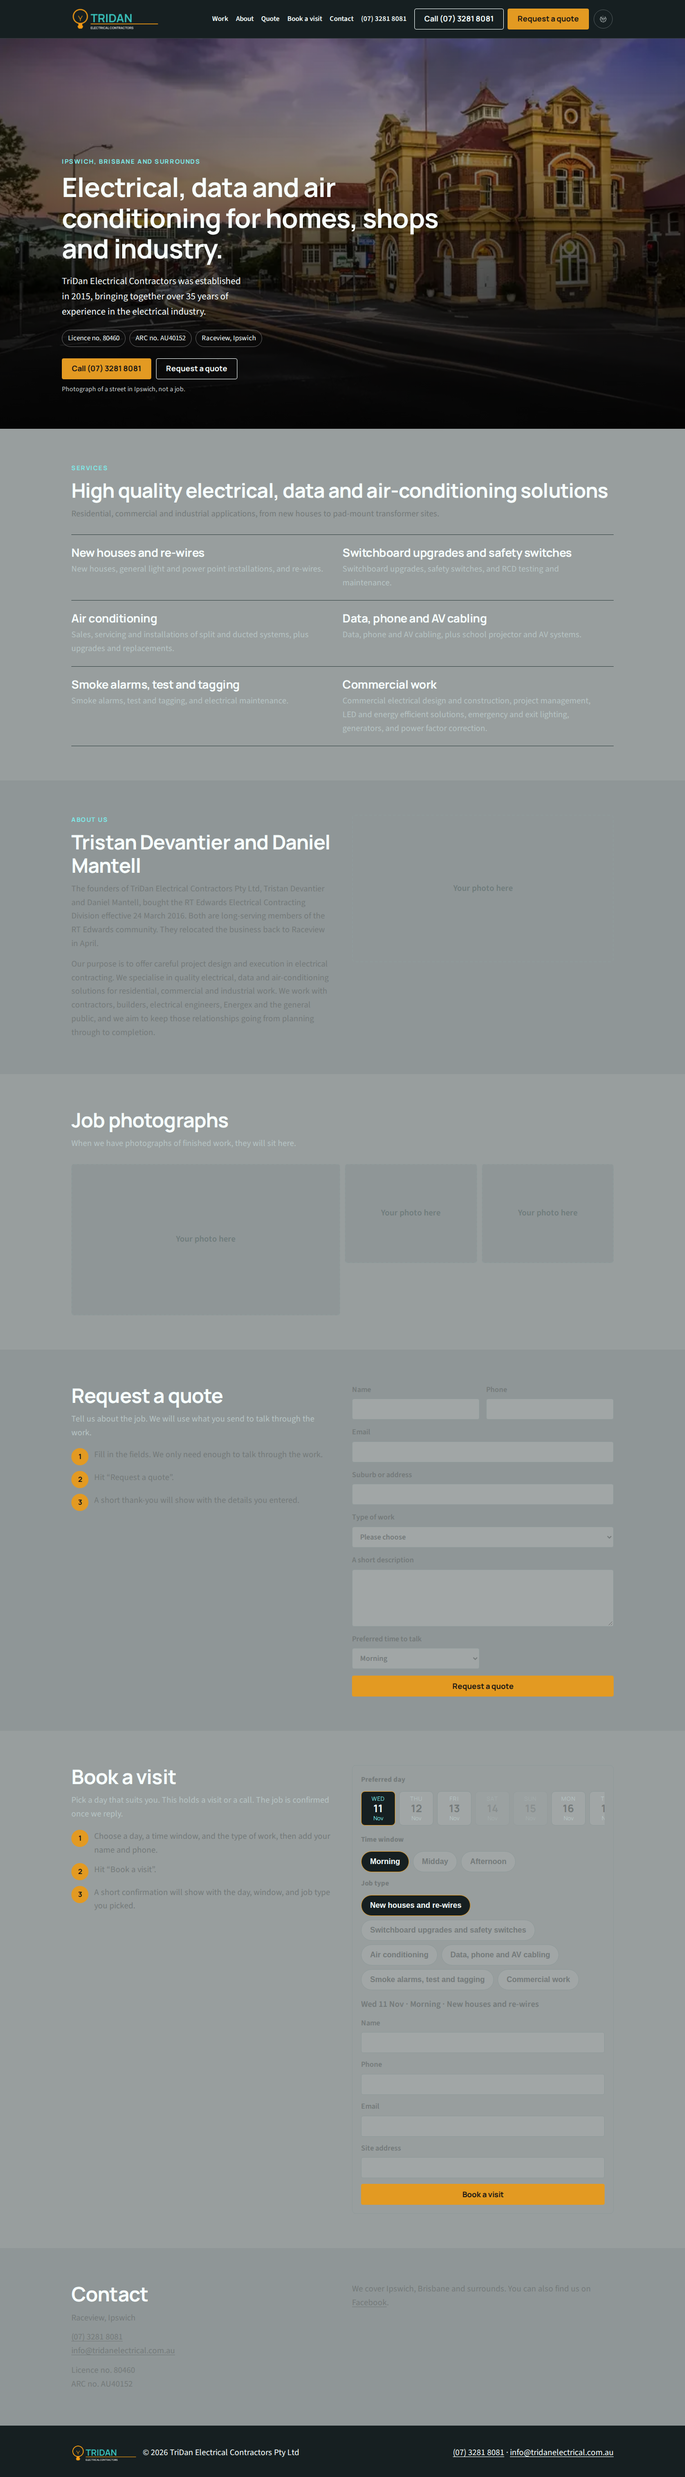
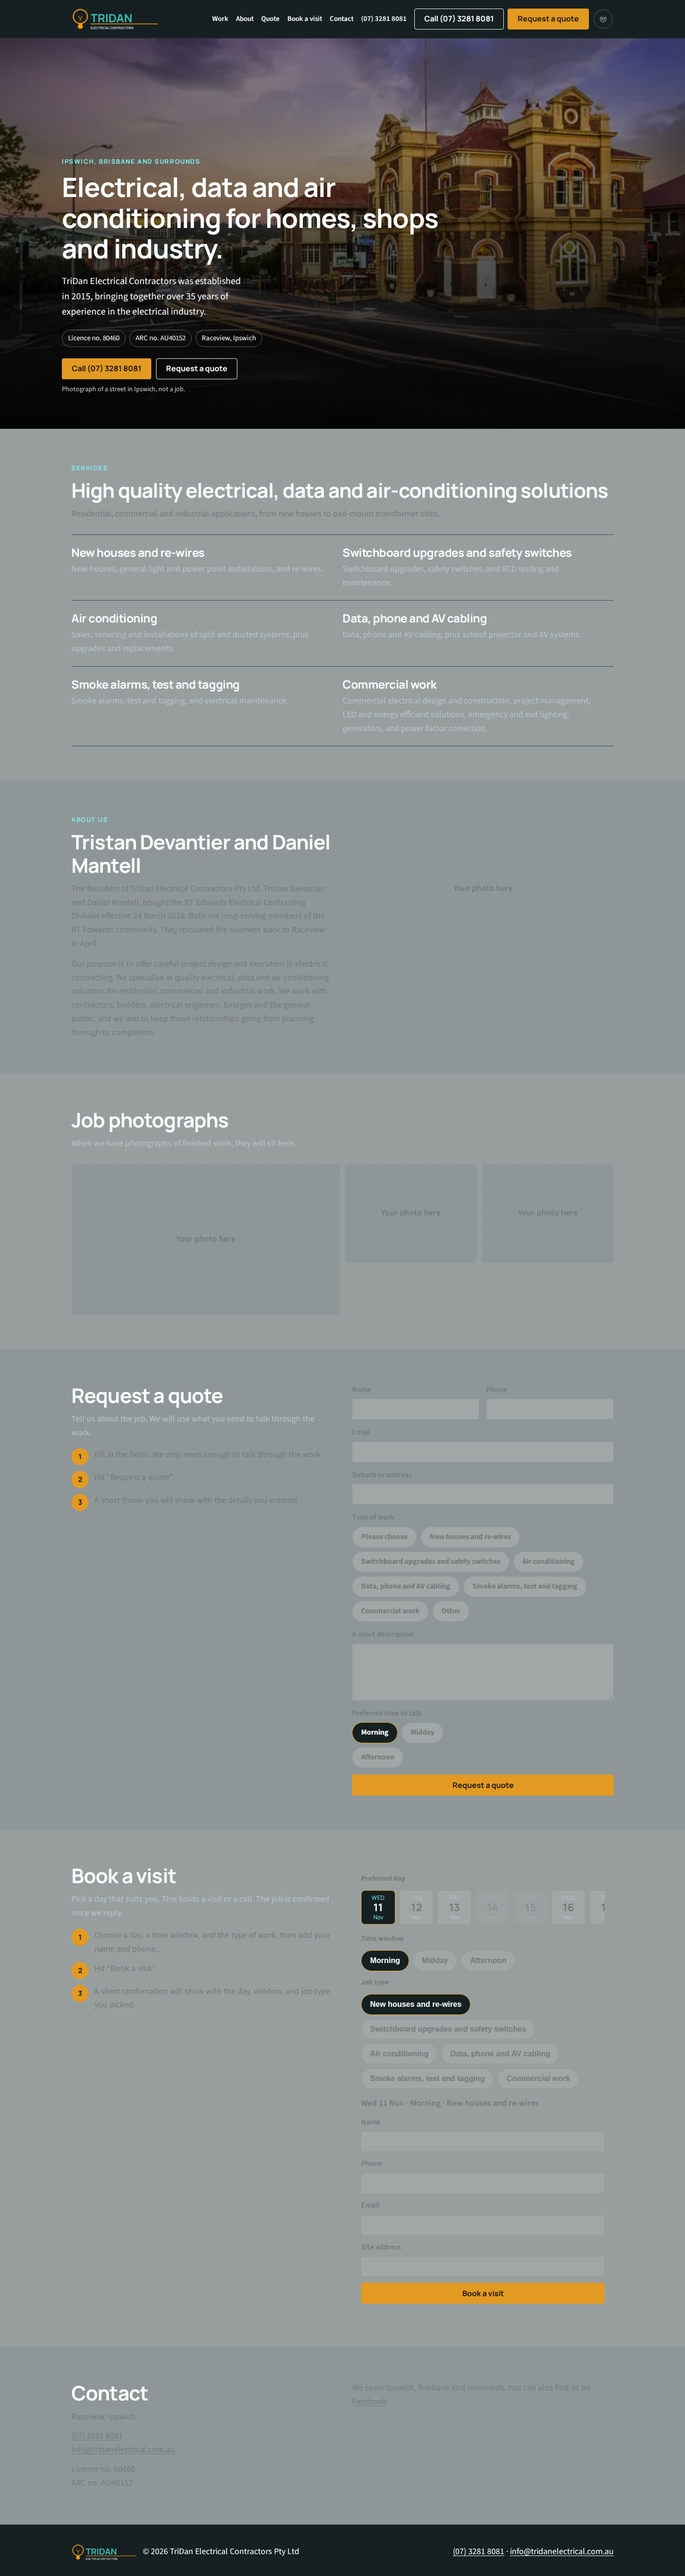
Pre-audit: titles, README, remove BRIEF, radio pills.
Keep CTA contrast (already ≥4.5:1). Swap quote selects for radio pills and stop serving BRIEF.md from Pages.

diff --git a/index.html b/index.html
@@ -3,9 +3,11 @@
 <head>
 <meta charset="UTF-8">
 <meta name="viewport" content="width=device-width, initial-scale=1">
+<title>TriDan Electrical — Home</title>
+<meta name="description" content="Website preview.">
+<meta property="og:description" content="Website preview.">
+<meta name="twitter:description" content="Website preview.">
 <meta name="robots" content="noindex">
-<title>Electrical, data and air conditioning, Ipswich | TriDan Electrical</title>
-<meta name="description" content="Electrical, data and air conditioning for homes, shops and industry in Ipswich. Call (07) 3281 8081.">
 <link rel="preload" href="fonts/manrope-700.woff2" as="font" type="font/woff2" crossorigin>
 <link rel="preload" href="fonts/sourcesans3.woff2" as="font" type="font/woff2" crossorigin>
 <link rel="stylesheet" href="styles.css">
@@ -130,26 +132,28 @@
       <label>Phone <input type="tel" name="phone" autocomplete="tel"></label>
       <label class="full">Email <input type="email" name="email" autocomplete="email"></label>
       <label class="full">Suburb or address <input type="text" name="suburb"></label>
-      <label class="full">Type of work
-        <select name="type">
-          <option value="">Please choose</option>
-          <option>New houses and re-wires</option>
-          <option>Switchboard upgrades and safety switches</option>
-          <option>Air conditioning</option>
-          <option>Data, phone and AV cabling</option>
-          <option>Smoke alarms, test and tagging</option>
-          <option>Commercial work</option>
-          <option>Other</option>
-        </select>
-      </label>
+      <fieldset class="full">
+        <legend>Type of work</legend>
+        <div class="pill-radios" role="radiogroup" aria-label="Type of work">
+          <label class="pill"><input type="radio" name="type" value="">Please choose</label>
+          <label class="pill"><input type="radio" name="type" value="New houses and re-wires">New houses and re-wires</label>
+          <label class="pill"><input type="radio" name="type" value="Switchboard upgrades and safety switches">Switchboard upgrades and safety switches</label>
+          <label class="pill"><input type="radio" name="type" value="Air conditioning">Air conditioning</label>
+          <label class="pill"><input type="radio" name="type" value="Data, phone and AV cabling">Data, phone and AV cabling</label>
+          <label class="pill"><input type="radio" name="type" value="Smoke alarms, test and tagging">Smoke alarms, test and tagging</label>
+          <label class="pill"><input type="radio" name="type" value="Commercial work">Commercial work</label>
+          <label class="pill"><input type="radio" name="type" value="Other">Other</label>
+        </div>
+      </fieldset>
       <label class="full">A short description <textarea name="details"></textarea></label>
-      <label>Preferred time to talk
-        <select name="when">
-          <option>Morning</option>
-          <option>Midday</option>
-          <option>Afternoon</option>
-        </select>
-      </label>
+      <fieldset>
+        <legend>Preferred time to talk</legend>
+        <div class="pill-radios" role="radiogroup" aria-label="Preferred time to talk">
+          <label class="pill"><input type="radio" name="when" value="Morning" checked>Morning</label>
+          <label class="pill"><input type="radio" name="when" value="Midday">Midday</label>
+          <label class="pill"><input type="radio" name="when" value="Afternoon">Afternoon</label>
+        </div>
+      </fieldset>
       <div class="submit"><button class="btn btn-accent" type="submit">Request a quote</button></div>
     </form>
     <p class="thanks" id="quote-success" hidden>Thanks. Your quote request is saved.</p>

diff --git a/styles.css b/styles.css
@@ -173,6 +173,19 @@ html[data-theme="dark"] .icon-moon{opacity:0;transform:rotate(-90deg) scale(.6)}
 
 form{display:grid;grid-template-columns:1fr 1fr;gap:14px}
 form label{display:flex;flex-direction:column;gap:6px;font-weight:600;font-size:16px}
+form legend{font-weight:600;font-size:16px;margin-bottom:6px}
+form fieldset{border:0;min-width:0;max-width:100%}
+.pill-radios{display:flex;flex-wrap:wrap;gap:8px}
+.pill-radios .pill{
+  position:relative;display:inline-flex;align-items:center;justify-content:center;
+  gap:0;cursor:pointer;font-weight:700;
+}
+.pill-radios .pill input{
+  position:absolute;inset:0;opacity:0;margin:0;width:100%;height:100%;cursor:pointer;
+  min-height:44px;appearance:none;border:0;background:transparent;
+}
+.pill-radios .pill:has(input:checked){border-color:var(--accent);background:var(--dark);color:var(--on-dark)}
+.pill-radios .pill:has(input:focus-visible){outline:3px solid var(--ink);outline-offset:3px}
 form .full{grid-column:1 / -1}
 form input,form select,form textarea{
   min-height:44px;padding:8px 12px;border:1px solid var(--line);border-radius:4px;

diff --git a/README.md b/README.md
@@ -1,3 +1,1 @@
-# tridan-electrical preview
-
-Spec preview by Crom Services. Not the live site. Not indexed.
+Website preview.
